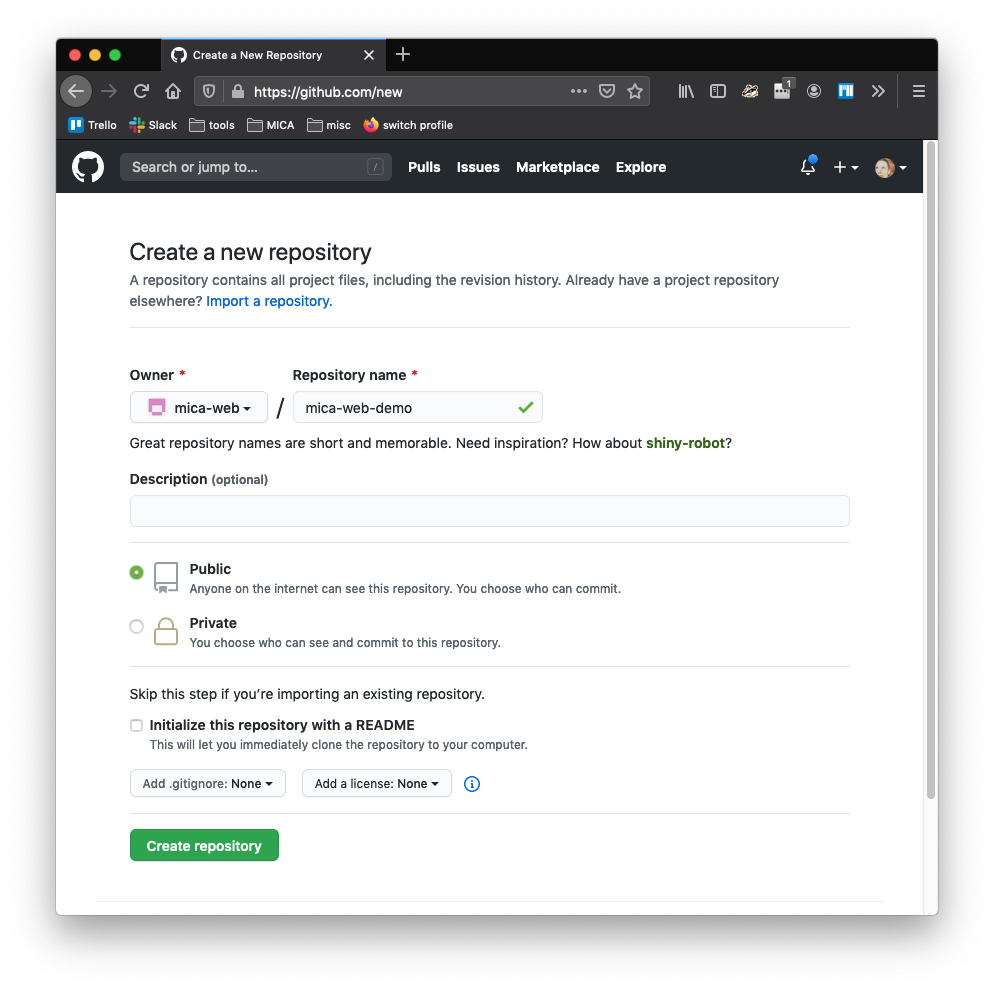
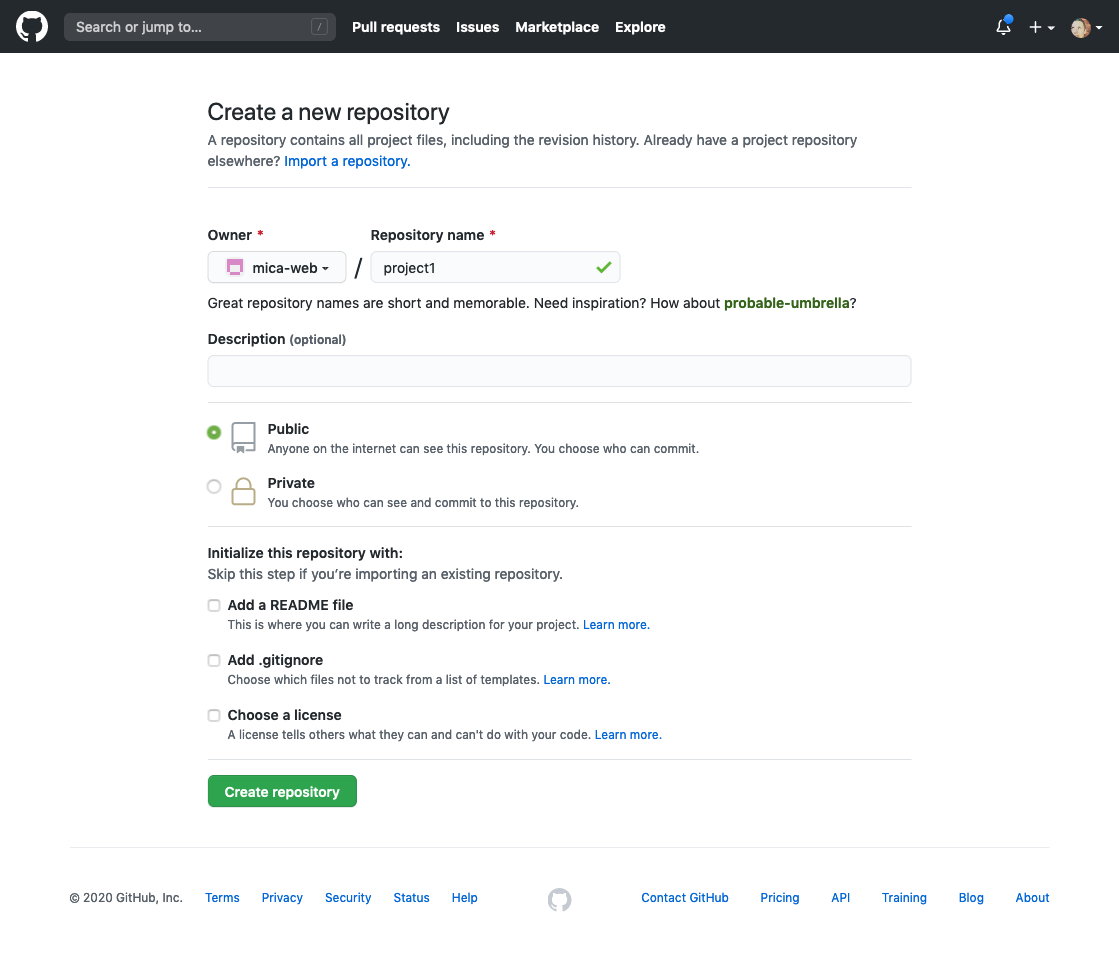
Tweaks and add ✳

Changed region(s): [[0.0, 0.0, 1.0, 0.9667], [0.1247, 0.5613, 0.6237, 0.8732]]

diff --git a/collections/_learn/03_workflows/glitch-and-github.md b/collections/_learn/03_workflows/glitch-and-github.md
@@ -28,14 +28,14 @@ Note that it's entirely possible to use Glitch without GitHub and to add non-Gli
 
 ## Step 1: Create a new repository
 Starting on [GitHub](https://github.com), log into your account, and then create a new repository following [these directions](https://docs.github.com/en/github/creating-cloning-and-archiving-repositories/creating-a-new-repository).
-- Name your repo **mica-web-demo**.
+- Name your repo **project1** with no spaces.
 - Make your repo public.
-- Don't check the box for **Initialize this repository with a README**.
+- Don't check any of the extra checkboxes.
 
 See this screenshot for a full view of the settings to create the new repo:
 ![Create repo settings on GitHub]({{ ip | append: 'new-repo-settings.png' }})
 
-When you've correctly entered everything, click the **Create Repository** button. You'll end up with a page full of instructions; leave this page open for now, and you'll come back to it later.
+When you've correctly entered everything, click the **Create repository** button. You'll end up with a page full of instructions; leave this page open for now, and you'll come back to it later.
 
 ## Step 2: Remix a project on Glitch
 Next, open a new tab or browser and go to [Glitch](https://glitch.com) and log into your account. Open up my [starter project](https://glitch.com/edit/#!/mica-web-starter) and remix the project:
@@ -45,7 +45,7 @@ Next, open a new tab or browser and go to [Glitch](https://glitch.com) and log i
 As you can see above, the original project is named **mica-web-starter** and then a copy is created with the dynamically generated name **south-shell-shoemaker**. In your remix, you can rename this project to something more relevant or keep the creative name Glitch has assigned.
 
 {: .callout }
-Both GitHub and Glitch have the concept of taking existing work and creating your own copy or version; on GitHub, this is called [**forking**](https://docs.github.com/en/github/getting-started-with-github/github-glossary#fork) and on Glitch it's called [**remixing**](https://glitch.happyfox.com/kb/article/23-what%E2%80%99s-remixing/). As you can see in the above screen capture, you can copy your own work as well as other people's.
+Both GitHub and Glitch have the concept of taking existing work and creating your own copy or version; on GitHub, this is called [**forking**](https://docs.github.com/en/github/getting-started-with-github/github-glossary#fork) {% include optional.html %}  and on Glitch it's called [**remixing**](https://glitch.happyfox.com/kb/article/23-what%E2%80%99s-remixing/).{% include optional.html %} As you can see in the above screen capture, you can copy your own work as well as other people's.
 
 Now you have a project on Glitch and a repo on GitHub and are ready to connect them both.
 
@@ -59,7 +59,7 @@ The next steps will involve using the **command line**. If you haven't used the 
 Open up the Command Palette again and again type "Glitch." This time, select **Glitch: Console**. This will open up your console view in VS Code.
 
 {: .callout }
-In the rest of these directions, whenever I use the word "console," I specifically mean this Glitch console in VS Code.
+In the rest of these directions, whenever I use the word "console," I specifically mean the Glitch console in VS Code.
 
 In the console, type `ssh-keygen` and press **Enter**.
 
@@ -75,7 +75,7 @@ This screenshot shows the prompts you should see and the beginning of the succes
 You have just created an SSH key pair which will allow your Glitch project and your GitHub repo to pass information back and forth without passwords.
 
 {: .callout }
-If you're interested in more detail about this, you can read about [public key authentication](https://www.ssh.com/ssh/public-key-authentication).
+If you're interested in more detail about this, you can read about [public key authentication](https://www.ssh.com/ssh/public-key-authentication).{% include optional.html %}
 
 Now you want to take the info from your public key and share it with GitHub. To do this, type `cat .ssh/id_rsa.pub` in the console and press **Enter**.
 
@@ -92,7 +92,7 @@ This link takes you directly to the page, but you can always get there yourself 
 Click the button to add **New SSH key** and name the key "Push from Glitch demo". Paste in the public key code you copied from the console and then click **Add SSH key**. (You may be prompted to enter your GitHub password at this point.)
 
 {: .callout }
-Want to see detailed screenshots of the this process? [View this walkthrough from the GitHub docs](https://docs.github.com/en/github/authenticating-to-github/adding-a-new-ssh-key-to-your-github-account).
+Want to see detailed screenshots of the this process? [View this walkthrough from the GitHub docs](https://docs.github.com/en/github/authenticating-to-github/adding-a-new-ssh-key-to-your-github-account).{% include optional.html %}
 
 Because an SSH key is a form of access to your account, you will also receive an email from GitHub alerting you to this change to your settings.
 

diff --git a/collections/_learn/00_tools/browsers.md b/collections/_learn/00_tools/browsers.md
@@ -37,13 +37,13 @@ Users can opt out of these auto-updates, but since they're enabled by default, m
 %}
 
 ## Getting started
-Most of my demos in this course will be using Mozilla Firefox, but you can work in _either_ Firefox or Google Chrome. It's important for you to use one of these browsers because it is evergreen and because they both have powerful built-in web developer tools that will help you examine, edit and debug the code you create.
+Most of my demos in this course will be using Mozilla Firefox, but you can work in _either_ Firefox or Google Chrome. It's important for you to use one of these browsers because they are evergreen and because they both have powerful built-in web developer tools that will help you examine, edit and debug the code you create.
 
 Download at least one of these browsers:
 
   - [Firefox (browser)](https://www.mozilla.org/en-US/firefox/new/)
-    - _optional:_ Learn about [FF dev tools](https://developer.mozilla.org/en-US/docs/Tools)
+    - Learn about [FF dev tools](https://developer.mozilla.org/en-US/docs/Tools){% include optional.html %}
   - [Google Chrome (browser)](https://www.google.com/chrome/)
-    - _optional:_ Learn about [Chrome dev tools](https://developers.google.com/web/tools/chrome-devtools/)
+    - Learn about [Chrome dev tools](https://developers.google.com/web/tools/chrome-devtools/){% include optional.html %}
 
 You don't have to understand how to use dev tools at this point; we'll discuss that in depth later when talking about how to debug your code. <span class="emoji">👍🏻</span>

diff --git a/collections/_learn/00_tools/vs-code.md b/collections/_learn/00_tools/vs-code.md
@@ -27,9 +27,10 @@ Download the [stable build of VS Code](https://code.visualstudio.com/) for your 
 After you've downloaded and installed VS Code, open it up and make sure the install worked as expected. Hopefully we can celebrate a bit at this point. <span class="emoji">🙌🏻🎉</span>
 
 ### Get familiar with your text editor
-Before going further, it will help to read this [intro to the VS Code user interface](https://code.visualstudio.com/docs/getstarted/userinterface) to get an explanation of the different areas within VS Code. You don't need to read the whole thing and can stop when you finish the section titled **Preview mode**.
+Before going further, it will help to learn about it about the user interface of VS Code. You can either:
 
-Prefer a video walkthrough? Ornella, from the VS Code team, has this 5-min intro:
+- read this [intro to the VS Code user interface](https://code.visualstudio.com/docs/getstarted/userinterface); you don't need to read the whole thing and can stop when you finish the section titled **Preview mode**.
+- watch a walkthrough of the user interface in this 5-min video by Ornella, a member of the VS Code team:
 
 <div class="embed-wrapper">
   <iframe width="560" height="315" src="https://www.youtube-nocookie.com/embed/S320N3sxinE" frameborder="0" allow="accelerometer; autoplay; encrypted-media; gyroscope; picture-in-picture" allowfullscreen></iframe>

diff --git a/collections/_learn/00_tools/slack.md b/collections/_learn/00_tools/slack.md
@@ -42,7 +42,7 @@ There are some additional things you can learn to do in Slack that will help you
 1. You can **add emoji reactions** to any message in Slack. [Learn how](https://slack.com/help/articles/206870317-Use-emoji-reactions). I especially appreciate a thumbs-up to class announcements so I know you've seen it. <span class="emoji">👍</span>
 1. **Send DMs...to yourself.** You can make notes to yourself here. I use it to set myself reminders or save links I want to share to the class at certain times.
 1. Speaking of reminders, **Slack has a built-in reminder system.** See the Slack Help Center for [instructions on creating reminders](https://slack.com/help/articles/208423427-Set-a-reminder).
-1. Want info on more Slack features? Check out these [19 tips](https://okdork.com/slack-app-19-tips-advanced-tutorial/).
+1. Want info on more Slack features? Check out these [19 tips](https://okdork.com/slack-app-19-tips-advanced-tutorial/).{% include optional.html %}
 
 ## Reminder
 MICA's [guidelines for online etiquette (PDF, 102 KB)](https://drive.google.com/file/d/1MR15B4UBGtdSwonED3IIu0igkUD5Sp3F/view) definitely apply to this space. Conversation may be casual (I definitely rely heavily on emoji and GIFs <span class="emoji">😁</span>), but it should always be appropriate and respectful.

diff --git a/collections/_learn/00_tools/command-line.md b/collections/_learn/00_tools/command-line.md
@@ -42,5 +42,5 @@ Both [VS Code]({{ lp | append: 'tools/vs-code' }}) and [Glitch]({{ lp | append: 
 While there are some technical differences between a terminal, a console, and the command line, they're not important to get into at this point. Going forward, the class documents will always refer to console, since that's the name used in for the Glitch terminal _inside of_ VS Code. <span class="emoji">👍🏻</span>
 
 Learn more about the:
-- [VS Code Terminal](https://code.visualstudio.com/docs/editor/integrated-terminal)
-- [Glitch Terminal](https://glitch.happyfox.com/kb/article/48-i-ve-got-mad-skillz-i-need-a-terminal-command-line-console/)
+- [VS Code Terminal](https://code.visualstudio.com/docs/editor/integrated-terminal){% include optional.html %} 
+- [Glitch Terminal](https://glitch.happyfox.com/kb/article/48-i-ve-got-mad-skillz-i-need-a-terminal-command-line-console/){% include optional.html %} 

diff --git a/collections/_learn/00_tools/text-editors.md b/collections/_learn/00_tools/text-editors.md
@@ -52,7 +52,7 @@ In the example above:
 - attribute names (`href`, `src`, `alt`) are in green and
 - the values for the above-mentioned attributes are in red.
 
-Even if you can't read this code example, you might start to understand that similarly colored bits of text have something in common. And making those similarities easily visible is the point of syntax highlighting.
+Even if you don't understand this code, the example might lead you to believe--correctly so--that similarly colored bits of text have something in common. And making those similarities easily visible is the point of syntax highlighting.
 
 ### Automatic formatting
 Because writing code involves **nesting** code -- that is, placing chunks of code inside other bits of code -- the layout or formatting of your code files can help with understanding the structure of your code and even spotting bits of broken code.
